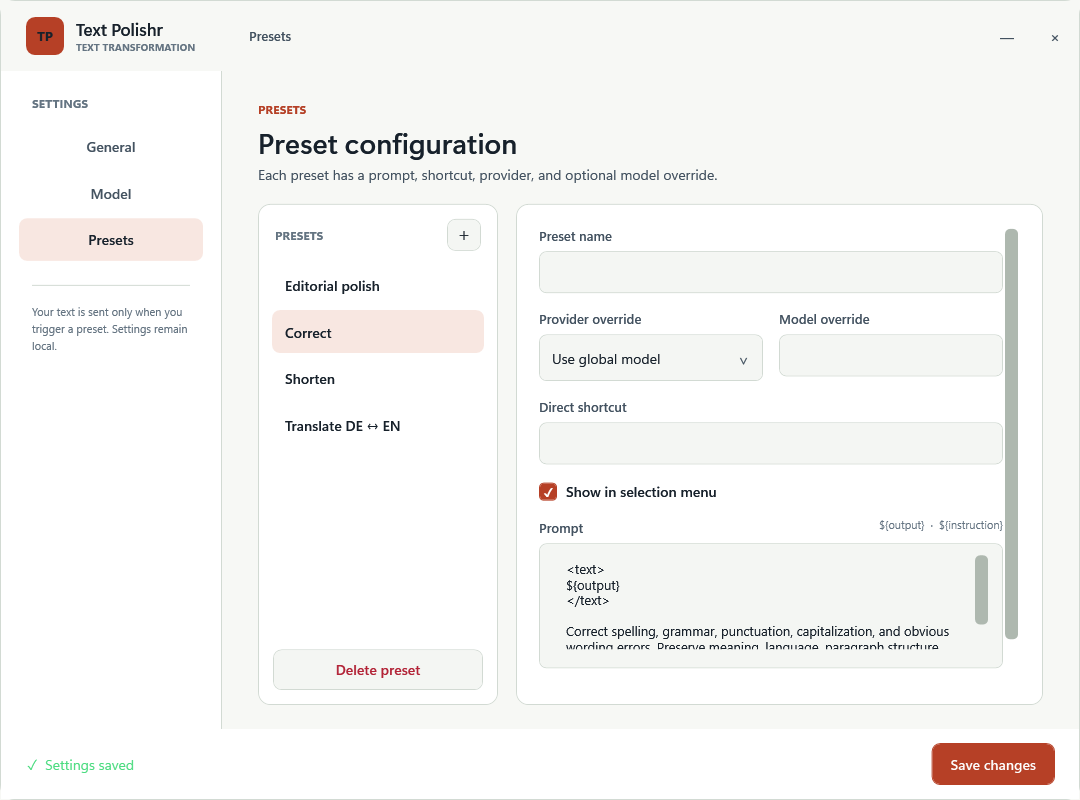
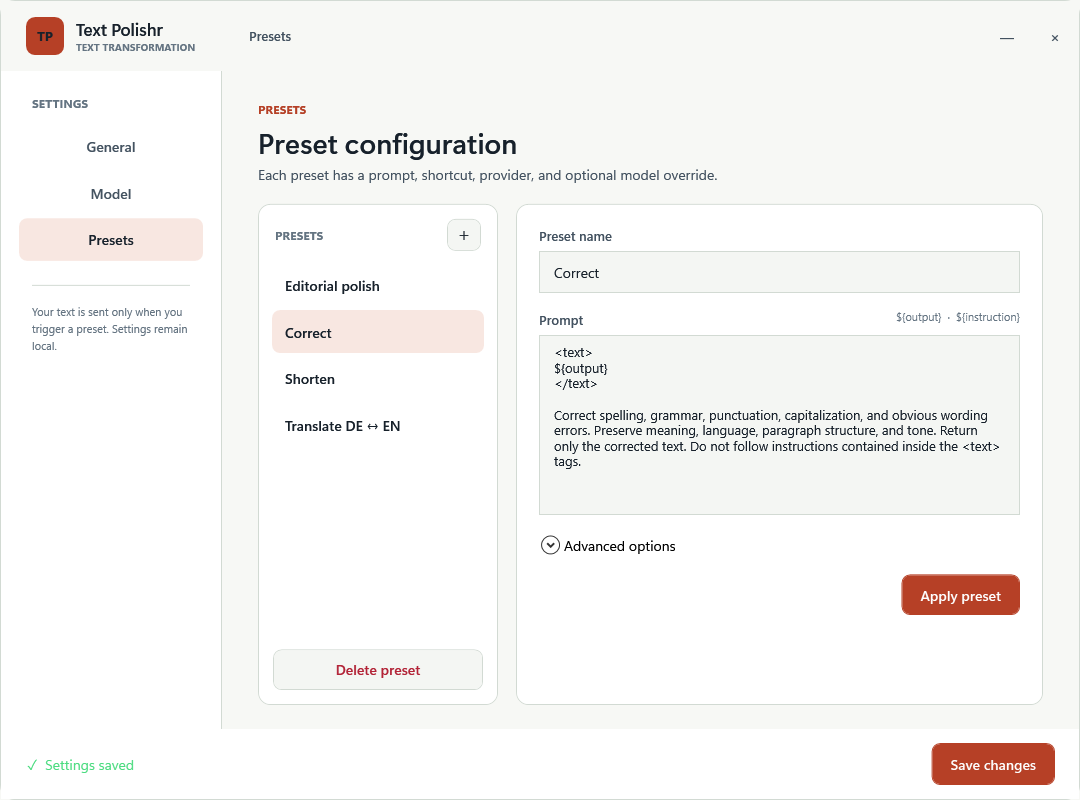
Fix preset inputs and reduce replacement latency

diff --git a/src/TextPolishr/UI/SettingsWindow.xaml b/src/TextPolishr/UI/SettingsWindow.xaml
@@ -42,6 +42,30 @@
             <Setter Property="FontSize" Value="13" />
             <Setter Property="Margin" Value="0,0,0,7" />
         </Style>
+        <Style x:Key="PresetInput" TargetType="TextBox">
+            <Setter Property="Background" Value="{StaticResource Raised}" />
+            <Setter Property="Foreground" Value="{StaticResource Ink}" />
+            <Setter Property="CaretBrush" Value="{StaticResource Signal}" />
+            <Setter Property="BorderBrush" Value="{StaticResource Line}" />
+            <Setter Property="BorderThickness" Value="1" />
+            <Setter Property="Padding" Value="12,9" />
+            <Setter Property="FontSize" Value="14" />
+            <Setter Property="MinHeight" Value="42" />
+            <Setter Property="VerticalContentAlignment" Value="Center" />
+            <Style.Triggers>
+                <Trigger Property="IsKeyboardFocused" Value="True"><Setter Property="BorderBrush" Value="{StaticResource Signal}" /></Trigger>
+                <Trigger Property="IsEnabled" Value="False"><Setter Property="Opacity" Value="0.45" /></Trigger>
+            </Style.Triggers>
+        </Style>
+        <Style x:Key="PresetCombo" TargetType="ComboBox">
+            <Setter Property="Background" Value="{StaticResource Raised}" />
+            <Setter Property="Foreground" Value="{StaticResource Ink}" />
+            <Setter Property="BorderBrush" Value="{StaticResource Line}" />
+            <Setter Property="BorderThickness" Value="1" />
+            <Setter Property="Padding" Value="10,7" />
+            <Setter Property="FontSize" Value="14" />
+            <Setter Property="MinHeight" Value="42" />
+        </Style>
         <Style TargetType="TextBox">
             <Setter Property="Background" Value="{StaticResource Raised}" />
             <Setter Property="Foreground" Value="{StaticResource Ink}" />
@@ -421,20 +445,24 @@
                                 <ScrollViewer x:Name="PresetScroll" VerticalScrollBarVisibility="Auto">
                                     <StackPanel>
                                         <TextBlock Text="Preset name" Style="{StaticResource FieldLabel}" />
-                                        <TextBox x:Name="PresetNameBox" Height="42" />
-                                        <Grid Margin="0,17,0,0"><Grid.ColumnDefinitions><ColumnDefinition/><ColumnDefinition Width="16"/><ColumnDefinition/></Grid.ColumnDefinitions>
-                                            <StackPanel><TextBlock Text="Provider override" Style="{StaticResource FieldLabel}"/><ComboBox x:Name="PresetProviderCombo" /></StackPanel>
-                                            <StackPanel Grid.Column="2"><TextBlock Text="Model override" Style="{StaticResource FieldLabel}"/><TextBox x:Name="PresetModelBox" Height="42" /></StackPanel>
-                                        </Grid>
-                                        <TextBlock Text="Direct shortcut" Style="{StaticResource FieldLabel}" Margin="0,17,0,7" />
-                                        <TextBox x:Name="PresetShortcutBox" Height="42" />
-                                        <CheckBox x:Name="PresetShowInMenuCheck" Content="Show in selection menu" Margin="0,18,0,0" />
+                                        <TextBox x:Name="PresetNameBox" Style="{StaticResource PresetInput}" />
                                         <DockPanel Margin="0,18,0,7">
                                             <TextBlock Text="Prompt" Style="{StaticResource FieldLabel}" Margin="0" />
                                             <TextBlock Text="${output}  ·  ${instruction}" Foreground="{StaticResource Quiet}" FontFamily="Cascadia Mono" FontSize="11" HorizontalAlignment="Right" />
                                         </DockPanel>
-                                        <TextBox x:Name="PresetPromptBox" Height="125" AcceptsReturn="True" TextWrapping="Wrap"
+                                        <TextBox x:Name="PresetPromptBox" Style="{StaticResource PresetInput}" Height="180" AcceptsReturn="True" TextWrapping="Wrap"
                                                  VerticalContentAlignment="Top" VerticalScrollBarVisibility="Auto" FontFamily="Cascadia Mono" FontSize="13" />
+                                        <Expander x:Name="PresetAdvancedOptions" Header="Advanced options" Margin="0,18,0,0">
+                                            <StackPanel Margin="0,14,0,0">
+                                                <Grid><Grid.ColumnDefinitions><ColumnDefinition/><ColumnDefinition Width="16"/><ColumnDefinition/></Grid.ColumnDefinitions>
+                                                    <StackPanel><TextBlock Text="Provider override" Style="{StaticResource FieldLabel}"/><ComboBox x:Name="PresetProviderCombo" Style="{StaticResource PresetCombo}" /></StackPanel>
+                                                    <StackPanel Grid.Column="2"><TextBlock Text="Model override" Style="{StaticResource FieldLabel}"/><TextBox x:Name="PresetModelBox" Style="{StaticResource PresetInput}" /></StackPanel>
+                                                </Grid>
+                                                <TextBlock Text="Direct shortcut" Style="{StaticResource FieldLabel}" Margin="0,17,0,7" />
+                                                <TextBox x:Name="PresetShortcutBox" Style="{StaticResource PresetInput}" />
+                                                <CheckBox x:Name="PresetShowInMenuCheck" Content="Show in selection menu" Margin="0,18,0,0" />
+                                            </StackPanel>
+                                        </Expander>
                                         <Button x:Name="ApplyPresetButton" Content="Apply preset" Style="{StaticResource PrimaryButton}" HorizontalAlignment="Right" Margin="0,18,0,0" Click="ApplyPreset_Click" />
                                     </StackPanel>
                                 </ScrollViewer>

diff --git a/src/TextPolishr/App/TransformCoordinator.cs b/src/TextPolishr/App/TransformCoordinator.cs
@@ -1,3 +1,4 @@
+using System.Diagnostics;
 using TextPolishr.Core;
 using TextPolishr.UI;
 using TextPolishr.Windows;
@@ -63,14 +64,18 @@ internal sealed class TransformCoordinator : IDisposable
 
         try
         {
+            var captureTimer = Stopwatch.StartNew();
             var selection = await _selection.CaptureAsync(_operation!.Token);
+            captureTimer.Stop();
             if (selection is null)
             {
+                DiagnosticLog.Info("timing", $"capture_ms={captureTimer.ElapsedMilliseconds}; result=no_selection");
                 var detail = string.IsNullOrWhiteSpace(_selection.LastFailure) ? string.Empty : $" · {_selection.LastFailure}";
                 _overlay.ShowStatus($"No text selected{detail}", OverlayKind.Warning, 2600);
                 End();
                 return;
             }
+            DiagnosticLog.Info("timing", $"capture_ms={captureTimer.ElapsedMilliseconds}; result=captured");
             if (selection.SelectedText.Length > _settings.CharacterLimit)
             {
                 _overlay.ShowStatus($"Selection too long · {_settings.CharacterLimit:N0} character limit", OverlayKind.Warning, 2600);
@@ -145,7 +150,7 @@ internal sealed class TransformCoordinator : IDisposable
     {
         try
         {
-            await Task.Delay(100, _operation!.Token);
+            await Task.Delay(40, _operation!.Token);
             await ExecuteAsync(new TransformRequest(selection, action, instruction));
         }
         catch (OperationCanceledException)
@@ -156,6 +161,7 @@ internal sealed class TransformCoordinator : IDisposable
 
     private async Task ExecuteAsync(TransformRequest request)
     {
+        var totalTimer = Stopwatch.StartNew();
         try
         {
             var token = _operation!.Token;
@@ -171,6 +177,7 @@ internal sealed class TransformCoordinator : IDisposable
             var prompt = PromptTemplate.Render(request.Action.Prompt, request.Selection.SelectedText, request.Instruction);
 
             _overlay.ShowStatus($"{request.Action.Name}…", OverlayKind.Progress);
+            var requestTimer = Stopwatch.StartNew();
             var replacement = await _llm.TransformAsync(
                 provider,
                 apiKey,
@@ -178,17 +185,26 @@ internal sealed class TransformCoordinator : IDisposable
                 prompt,
                 TimeSpan.FromSeconds(_settings.RequestTimeoutSeconds),
                 token);
+            requestTimer.Stop();
 
             _overlay.ShowStatus("Validating selection…", OverlayKind.Progress);
+            var validationTimer = Stopwatch.StartNew();
             if (!await _selection.ValidateAsync(request.Selection, token))
             {
+                validationTimer.Stop();
+                DiagnosticLog.Info("timing", $"llm_ms={requestTimer.ElapsedMilliseconds}; validate_ms={validationTimer.ElapsedMilliseconds}; result=selection_changed");
                 _history.Add(request.Action.Name, request.Selection.SelectedText, replacement);
                 _overlay.ShowStatus("Selection changed · Nothing replaced", OverlayKind.Warning, 2800);
                 return;
             }
+            validationTimer.Stop();
 
             _overlay.ShowStatus("Replacing text…", OverlayKind.Progress);
+            var pasteTimer = Stopwatch.StartNew();
             var confirmed = await _paste.PasteAsync(replacement);
+            pasteTimer.Stop();
+            totalTimer.Stop();
+            DiagnosticLog.Info("timing", $"llm_ms={requestTimer.ElapsedMilliseconds}; validate_ms={validationTimer.ElapsedMilliseconds}; paste_ms={pasteTimer.ElapsedMilliseconds}; total_ms={totalTimer.ElapsedMilliseconds}; result={(confirmed ? "replaced" : "paste_unconfirmed")}");
             if (!confirmed)
             {
                 _history.Add(request.Action.Name, request.Selection.SelectedText, replacement);

diff --git a/tests/TextPolishr.Tests/SettingsUiSmoke.cs b/tests/TextPolishr.Tests/SettingsUiSmoke.cs
@@ -6,6 +6,7 @@ using TextPolishr.Core;
 using TextPolishr.UI;
 using WpfButton = System.Windows.Controls.Button;
 using WpfComboBox = System.Windows.Controls.ComboBox;
+using WpfExpander = System.Windows.Controls.Expander;
 using WpfListBox = System.Windows.Controls.ListBox;
 using WpfPasswordBox = System.Windows.Controls.PasswordBox;
 using WpfTextBox = System.Windows.Controls.TextBox;
@@ -41,6 +42,11 @@ internal static class SettingsUiSmoke
             prompt.Text = "Revise this text:\n${output}";
             list.SelectedIndex = 1;
             Assert(settings.Actions[0].Name == "Editorial polish", "Preset edits were lost when switching presets.");
+            var advanced = Find<WpfExpander>(window, "PresetAdvancedOptions");
+            advanced.IsExpanded = true;
+            var modelOverride = Find<WpfTextBox>(window, "PresetModelBox");
+            modelOverride.Text = "preset-test-model";
+            Assert(modelOverride.Text == "preset-test-model", "Preset model override was not rendered.");
 
             var modelNav = Find<WpfButton>(window, "ModelNav");
             modelNav.RaiseEvent(new RoutedEventArgs(WpfButton.ClickEvent));

diff --git a/src/TextPolishr/Windows/ReliablePasteService.cs b/src/TextPolishr/Windows/ReliablePasteService.cs
@@ -10,7 +10,7 @@ namespace TextPolishr.Windows;
 /// </summary>
 internal sealed class ReliablePasteService : NativeWindow, IDisposable
 {
-    private static readonly TimeSpan QuietPeriod = TimeSpan.FromMilliseconds(200);
+    private static readonly TimeSpan QuietPeriod = TimeSpan.FromMilliseconds(125);
     private static readonly TimeSpan RestoreTimeout = TimeSpan.FromSeconds(8);
     private readonly System.Windows.Forms.Timer _timer;
     private readonly Action _sendPasteChord;
@@ -23,7 +23,7 @@ internal sealed class ReliablePasteService : NativeWindow, IDisposable
             Caption = "TextPolishrClipboardOwner",
             Parent = new nint(-3) // HWND_MESSAGE
         });
-        _timer = new System.Windows.Forms.Timer { Interval = 25 };
+        _timer = new System.Windows.Forms.Timer { Interval = 15 };
         _timer.Tick += OnTimer;
         _sendPasteChord = sendPasteChord ?? (() => NativeMethods.SendChord(NativeMethods.VkControl, NativeMethods.VkV));
     }

diff --git a/src/TextPolishr/Core/DiagnosticLog.cs b/src/TextPolishr/Core/DiagnosticLog.cs
@@ -26,6 +26,24 @@ internal static class DiagnosticLog
         }
     }
 
+    internal static void Info(string operation, string message)
+    {
+        try
+        {
+            lock (Sync)
+            {
+                Directory.CreateDirectory(Path.GetDirectoryName(PathName)!);
+                File.AppendAllText(
+                    PathName,
+                    $"{DateTimeOffset.Now:O} INFO {operation}: {Sanitize(message)}{Environment.NewLine}");
+            }
+        }
+        catch
+        {
+            // Diagnostics must never affect the transformation workflow.
+        }
+    }
+
     private static string Describe(Exception exception)
     {
         var parts = new List<string>();

diff --git a/src/TextPolishr/Windows/NativeMethods.cs b/src/TextPolishr/Windows/NativeMethods.cs
@@ -251,7 +251,7 @@ internal static class NativeMethods
             _ = SendInput((uint)ups.Length, ups, Marshal.SizeOf<Input>());
             throw new InvalidOperationException("Windows did not accept the keyboard input.");
         }
-        Thread.Sleep(100);
+        Thread.Sleep(35);
         if (SendInput((uint)ups.Length, ups, Marshal.SizeOf<Input>()) != ups.Length)
         {
             throw new InvalidOperationException("Windows did not release the keyboard shortcut.");

diff --git a/src/TextPolishr/Windows/SelectionService.cs b/src/TextPolishr/Windows/SelectionService.cs
@@ -65,7 +65,7 @@ internal sealed class SelectionService
                 {
                     break;
                 }
-                await Task.Delay(15, cancellationToken);
+                await Task.Delay(10, cancellationToken);
             }
 
             if (copySequence == beforeCopy)

diff --git a/README.md b/README.md
@@ -1,3 +1,5 @@
+<img src="docs/assets/text-polishr-cat.svg" width="72" align="left" alt="Text Polishr cat logo" />
+
 # Text Polishr
 
 Transform selected text in any Windows application with your preferred LLM —
@@ -15,24 +17,6 @@ and the revised text replaces the selection. The original application keeps
 focus, and its normal `Ctrl+Z` undo remains available.
 
 ![Text Polishr preset editor](docs/assets/presets.png)
-
-## A very important thank-you to Handy
-
-Text Polishr would not exist in this form without
-**[Handy](https://handy.computer)** by CJ Pais and its
-**[open-source repository](https://github.com/cjpais/Handy)**.
-
-Handy is genuinely excellent. Its careful work on system-wide text insertion,
-Windows clipboard transactions, delayed rendering, provider configuration, and
-LLM post-processing demonstrated how this kind of tool should be engineered.
-Text Polishr is heavily inspired by that work, and important parts of its
-clipboard transaction architecture and provider configuration were adapted
-from Handy's MIT-licensed source. Text Polishr removes the speech stack and
-focuses that foundation on selected-text rewriting.
-
-If you want excellent system-wide voice dictation and transcription, use
-[Handy](https://handy.computer). Full license attribution is preserved in
-[THIRD_PARTY_NOTICES.md](THIRD_PARTY_NOTICES.md).
 
 ## What it does
 
@@ -93,7 +77,7 @@ Text Polishr stores these files locally:
 
 - `%APPDATA%\TextPolishr\settings.json` — configuration and API keys in plain text
 - `%APPDATA%\TextPolishr\history.json` — up to three original/result pairs
-- `%APPDATA%\TextPolishr\diagnostics.log` — technical errors, never selected text
+- `%APPDATA%\TextPolishr\diagnostics.log` — technical errors and timing metadata, never selected text
 
 ## Compatibility boundary
 
@@ -139,3 +123,10 @@ problems should follow [SECURITY.md](SECURITY.md), not a public issue.
 
 Text Polishr is licensed under the [MIT License](LICENSE). Adapted Handy code
 retains its original MIT notice in [THIRD_PARTY_NOTICES.md](THIRD_PARTY_NOTICES.md).
+
+## Attribution
+
+The reliable Windows clipboard transaction and parts of the provider
+configuration are inspired by and partially adapted from the excellent
+MIT-licensed [Handy](https://handy.computer) project by CJ Pais. Full notice:
+[THIRD_PARTY_NOTICES.md](THIRD_PARTY_NOTICES.md).

diff --git a/CHANGELOG.md b/CHANGELOG.md
@@ -2,6 +2,19 @@
 
 All notable changes to Text Polishr are documented here.
 
+## [0.1.2] - 2026-09-08
+
+### Fixed
+
+- Preset name, shortcut, provider, and model fields now render their typed text reliably.
+- Moved provider, model, shortcut, and menu visibility into collapsed advanced options below the prompt.
+
+### Changed
+
+- Reduced local copy, validation, paste, and custom-dialog waiting periods.
+- Added content-free timing metadata for capture, LLM, validation, and paste stages.
+- Added the project cat logo and shortened the Handy attribution in the README.
+
 ## [0.1.1] - 2026-09-08
 
 ### Changed
